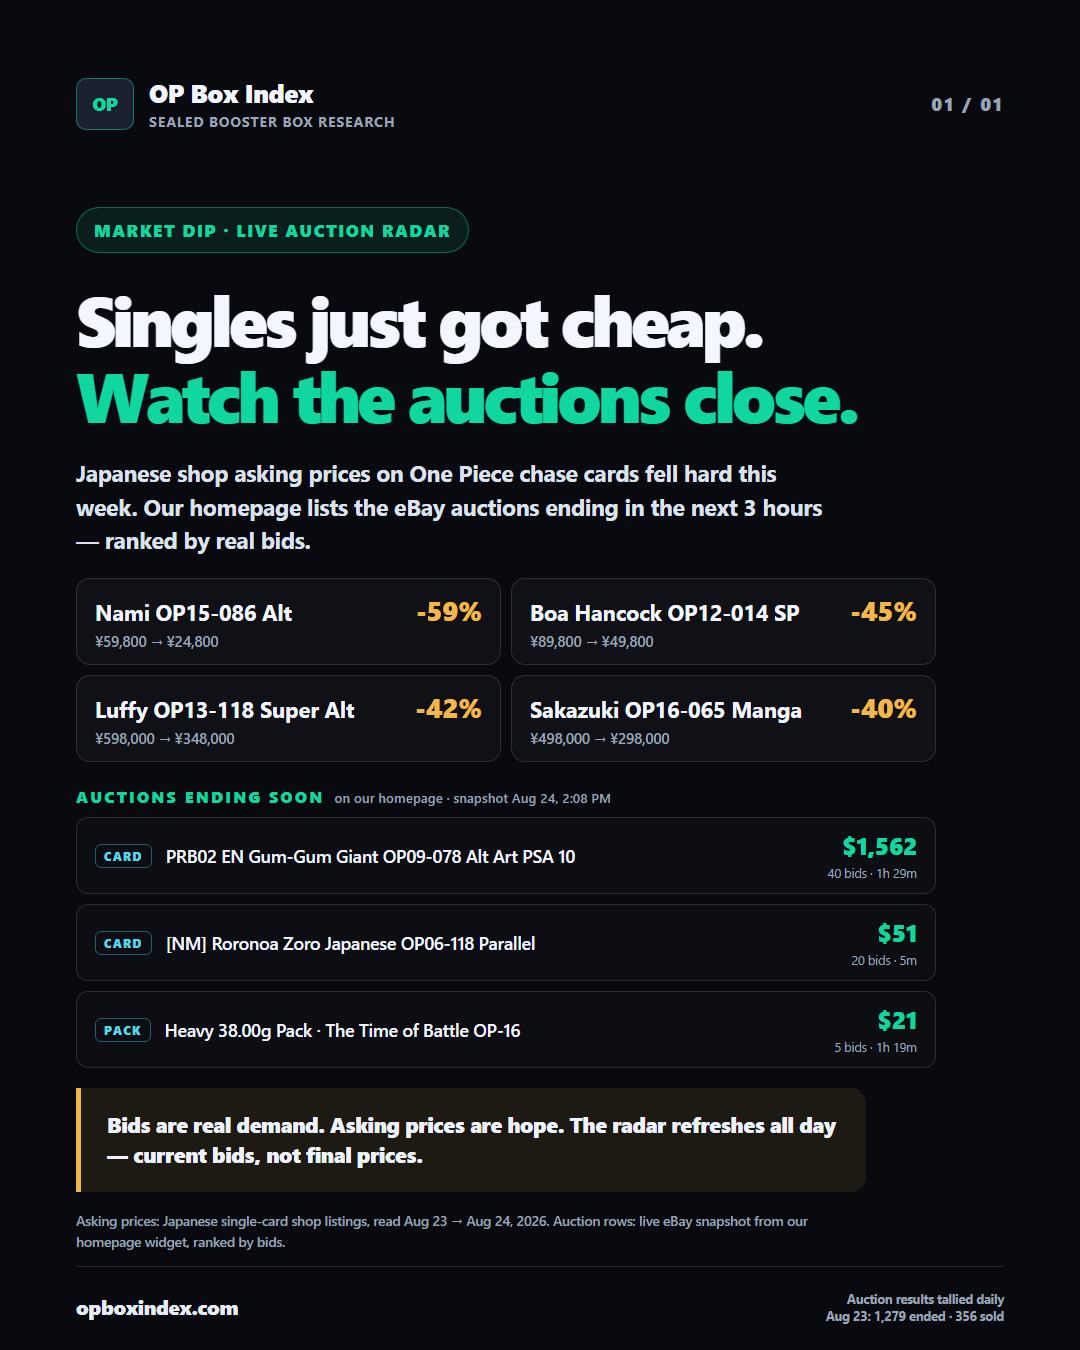
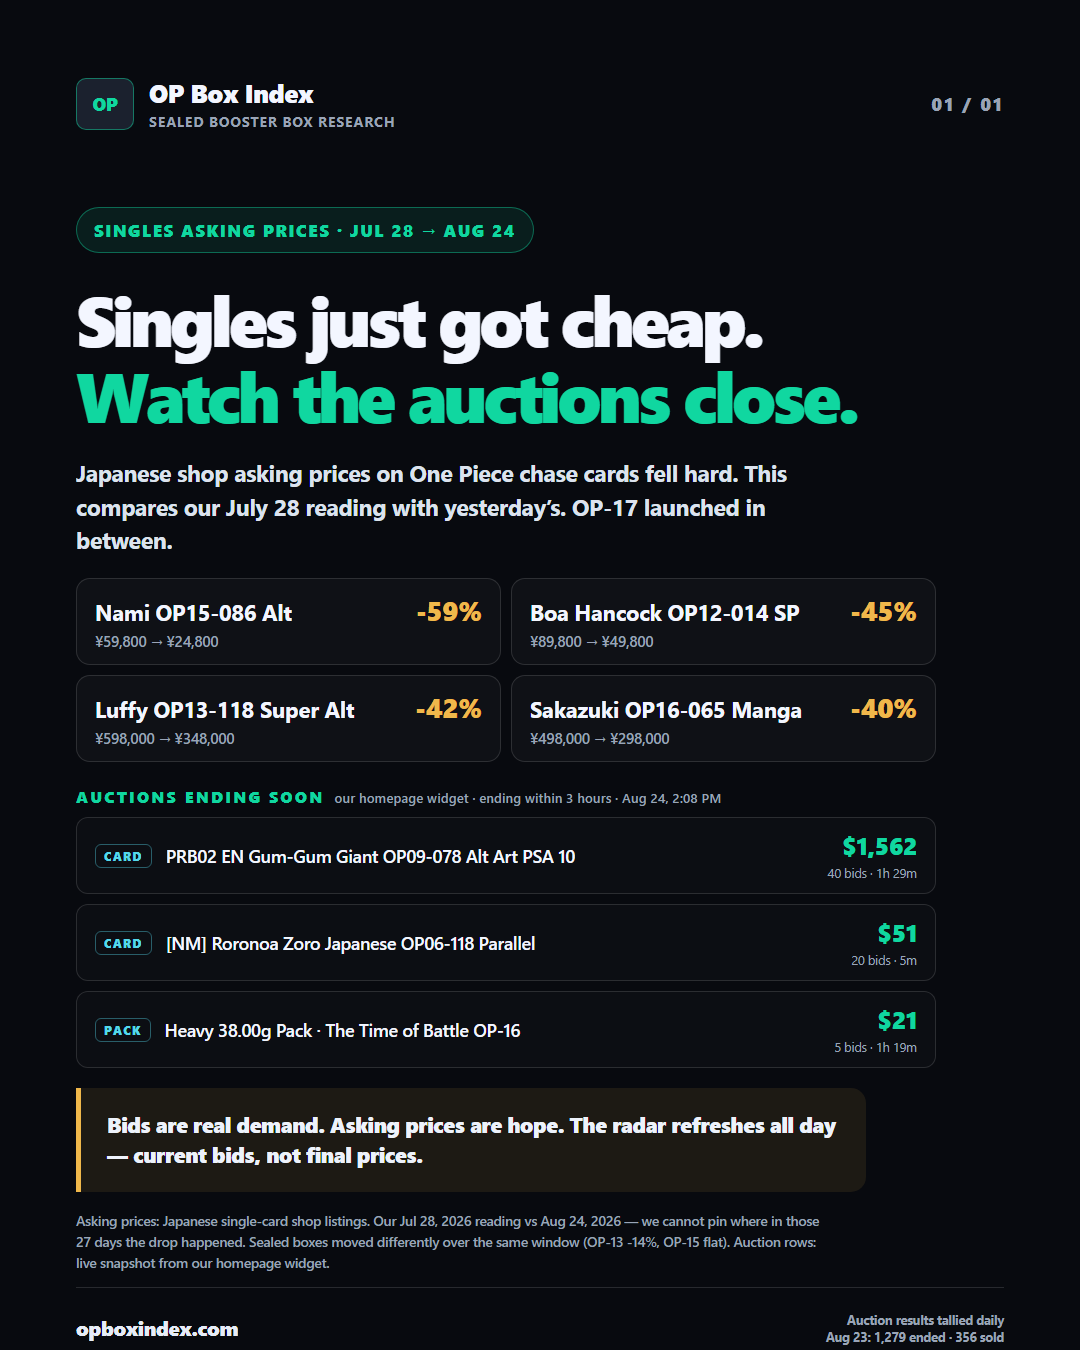
스레드 카드뉴스 정정: 관측 창 '하루' → 27일(7/28→8/24)
초안이 하락을 '하루 만에'로 썼는데 틀렸다. 8/23 커밋의 값은 7/28 수집분이
그대로 남아 있던 것이고, 유유테이 수집이 그 27일간 없었다(워크플로우 미등록).
우리 수집 간격을 시장이 움직인 기간으로 말한 셈이다.

- 관측 창을 7/28 → 8/24 로 명시, OP-17 발매(8/22)는 '그 사이'로만 서술하고
  인과는 단정하지 않는다(재확인 이틀 전이라 특정 불가).
- 같은 창에서 봉인 박스는 갈렸다는 사실 추가 — OP-15 보합, PRB-01 +4%.
  '박스도 같이 폭락'으로 읽히면 안 된다.
- 한글판 슬라이드·본문 추가(검토용). 금지 문장 목록에 이번 오류 박제.

diff --git a/assets/social/threads-2026-08-24-ending-soon/slide-01-ko.html b/assets/social/threads-2026-08-24-ending-soon/slide-01-ko.html
@@ -34,9 +34,9 @@
         <div class="pageNo">01 / 01</div>
       </div>
 
-      <div class="eyebrow">급락장 · 실시간 경매 레이더</div>
+      <div class="eyebrow">싱글 호가 하락 · 7/28 → 8/24</div>
       <h1>싱글 카드, 싸졌습니다.<br /><span>끝나가는 경매를 보세요.</span></h1>
-      <p class="deck">원피스 추격 카드의 일본 샵 호가가 하루 만에 크게 내렸습니다. 저희 홈 화면은 3시간 안에 끝나는 eBay 경매를 실제 입찰 수 순으로 보여줍니다.</p>
+      <p class="deck">원피스 추격 카드의 일본 샵 호가가 크게 내렸습니다. 저희가 7월 28일에 마지막으로 확인한 값과 어제 다시 받은 값의 차이입니다. 그 사이 OP-17이 발매됐습니다.</p>
 
       <div class="dropGrid" aria-label="하루 호가 하락">
         <div class="dropChip"><span><b>나미 OP15-086 알트</b><small>¥59,800 → ¥24,800</small></span><span class="dropPct">-59%</span></div>
@@ -46,14 +46,14 @@
       </div>
 
       <div class="aucPanel" aria-label="임박 경매 예시">
-        <div class="aucHead">곧 끝나는 경매<small>홈 화면 위젯 · 8/24 오후 2:08 스냅샷</small></div>
+        <div class="aucHead">곧 끝나는 경매<small>저희 홈 화면 위젯 · 3시간 내 종료 · 8/24 오후 2:08</small></div>
         <div class="aucRow"><span class="aucKind">카드</span><span class="aucTitle">PRB02 영문 검검열매 거인 OP09-078 알트 PSA 10</span><span class="aucBid"><b>$1,562</b><small>입찰 40 · 1시간 29분</small></span></div>
         <div class="aucRow"><span class="aucKind">카드</span><span class="aucTitle">[NM] 조로 일본판 OP06-118 패러렐</span><span class="aucBid"><b>$51</b><small>입찰 20 · 5분</small></span></div>
         <div class="aucRow"><span class="aucKind">팩</span><span class="aucTitle">중량 38.00g 팩 · The Time of Battle OP-16</span><span class="aucBid"><b>$21</b><small>입찰 5 · 1시간 19분</small></span></div>
       </div>
 
       <div class="insightBar">호가는 희망가, 입찰은 진짜 수요입니다. 레이더는 하루 종일 갱신됩니다 — 표시가는 현재 입찰가이며 낙찰가가 아닙니다.</div>
-      <p class="source">호가: 일본 싱글카드 샵 판매가, 8/23 → 8/24 수집. 경매 행: 홈 화면 위젯 실제 스냅샷, 입찰 수 순 정렬.</p>
+      <p class="source">호가: 일본 싱글카드 샵 판매가. 2026-07-28 확인값 대비 2026-08-24 재확인값이며, 그 27일 사이 어느 시점에 내렸는지는 저희 데이터로 특정할 수 없습니다. 봉인 박스는 같은 기간 세트마다 달랐습니다(OP-13 -14%, OP-15 보합). 경매 행은 홈 화면 위젯 실제 스냅샷.</p>
 
       <div class="footerRow">
         <div class="url">opboxindex.com</div>

diff --git a/assets/social/threads-2026-08-24-ending-soon/slide-01-en.html b/assets/social/threads-2026-08-24-ending-soon/slide-01-en.html
@@ -33,9 +33,9 @@
         <div class="pageNo">01 / 01</div>
       </div>
 
-      <div class="eyebrow">MARKET DIP · LIVE AUCTION RADAR</div>
+      <div class="eyebrow">SINGLES ASKING PRICES · JUL 28 → AUG 24</div>
       <h1>Singles just got cheap.<br /><span>Watch the auctions close.</span></h1>
-      <p class="deck">Japanese shop asking prices on One Piece chase cards fell hard this week. Our homepage lists the eBay auctions ending in the next 3 hours — ranked by real bids.</p>
+      <p class="deck">Japanese shop asking prices on One Piece chase cards fell hard. This compares our July 28 reading with yesterday&rsquo;s. OP-17 launched in between.</p>
 
       <div class="dropGrid" aria-label="One-day asking price drops">
         <div class="dropChip"><span><b>Nami OP15-086 Alt</b><small>¥59,800 → ¥24,800</small></span><span class="dropPct">-59%</span></div>
@@ -45,14 +45,14 @@
       </div>
 
       <div class="aucPanel" aria-label="Auctions ending soon example">
-        <div class="aucHead">AUCTIONS ENDING SOON<small>on our homepage · snapshot Aug 24, 2:08 PM</small></div>
+        <div class="aucHead">AUCTIONS ENDING SOON<small>our homepage widget · ending within 3 hours · Aug 24, 2:08 PM</small></div>
         <div class="aucRow"><span class="aucKind">CARD</span><span class="aucTitle">PRB02 EN Gum-Gum Giant OP09-078 Alt Art PSA 10</span><span class="aucBid"><b>$1,562</b><small>40 bids · 1h 29m</small></span></div>
         <div class="aucRow"><span class="aucKind">CARD</span><span class="aucTitle">[NM] Roronoa Zoro Japanese OP06-118 Parallel</span><span class="aucBid"><b>$51</b><small>20 bids · 5m</small></span></div>
         <div class="aucRow"><span class="aucKind">PACK</span><span class="aucTitle">Heavy 38.00g Pack · The Time of Battle OP-16</span><span class="aucBid"><b>$21</b><small>5 bids · 1h 19m</small></span></div>
       </div>
 
       <div class="insightBar">Bids are real demand. Asking prices are hope. The radar refreshes all day — current bids, not final prices.</div>
-      <p class="source">Asking prices: Japanese single-card shop listings, read Aug 23 → Aug 24, 2026. Auction rows: live eBay snapshot from our homepage widget, ranked by bids.</p>
+      <p class="source">Asking prices: Japanese single-card shop listings. Our Jul 28, 2026 reading vs Aug 24, 2026 &mdash; we cannot pin where in those 27 days the drop happened. Sealed boxes moved differently over the same window (OP-13 -14%, OP-15 flat). Auction rows: live snapshot from our homepage widget.</p>
 
       <div class="footerRow">
         <div class="url">opboxindex.com</div>

diff --git a/assets/social/threads-2026-08-24-ending-soon/post-copy.md b/assets/social/threads-2026-08-24-ending-soon/post-copy.md
@@ -1,51 +1,63 @@
-# Threads — 급락장 + 임박 경매 레이더 (2026-08-24)
+# Threads — 싱글 호가 하락 + 임박 경매 레이더 (2026-08-24)
 
-이미지 1장 (1080×1350): `threads-ending-soon-01-en.png`
+이미지 1080×1350 · 한글 `threads-ending-soon-01-ko.png` / 영문 `threads-ending-soon-01-en.png`
 
-## 본문 (확정)
+---
 
-One Piece singles just got cheap.
-
-Japanese shop asks on chase cards fell hard in one day:
-
-· Nami OP15-086 Alt ¥59,800 → ¥24,800 (-59%)
-· Boa Hancock OP12-014 SP -45%
-· Luffy OP13-118 Super Alt -42%
-· Sakazuki OP16-065 Manga -40%
-
-Asking prices are hope. Bids are real demand.
-
-Our homepage lists the eBay auctions ending in the next 3 hours — ranked by actual bids, refreshed all day. Yesterday 1,279 One Piece auctions ended; 356 sold.
-
-Live radar + daily results → opboxindex.com
-
-
-## 본문 (한글판)
+## 본문 · 한글
 
 원피스 싱글 카드, 싸졌습니다.
 
-추격 카드의 일본 샵 호가가 하루 만에 크게 내렸습니다:
+추격 카드의 일본 샵 호가입니다. 저희가 7월 28일에 마지막으로 확인한 값과 어제(8/24) 다시 받은 값:
 
 · 나미 OP15-086 알트 ¥59,800 → ¥24,800 (-59%)
 · 보아 한콕 OP12-014 SP -45%
 · 루피 OP13-118 슈퍼 알트 -42%
 · 사카즈키 OP16-065 만화 -40%
 
-호가는 희망가, 입찰은 진짜 수요입니다.
+그 사이 OP-17이 발매됐습니다. 다만 27일 창이라 어느 시점에 내렸는지는 저희 데이터로 특정할 수 없습니다.
 
-저희 홈 화면은 3시간 안에 끝나는 eBay 경매를 실제 입찰 수 순으로 보여줍니다. 하루 종일 갱신됩니다. 어제는 원피스 경매 1,279건이 끝났고 356건이 낙찰됐습니다.
+봉인 박스는 같은 기간 세트마다 갈렸습니다 — OP-13 -14%, OP-15는 보합.
+
+호가는 희망가, 입찰은 진짜 수요입니다. 저희 홈 화면은 3시간 안에 끝나는 eBay 경매를 실제 입찰 수 순으로 보여줍니다. 어제는 원피스 경매 1,279건이 끝났고 356건이 낙찰됐습니다.
 
 실시간 레이더 + 일일 집계 → opboxindex.com
 
+---
+
+## 본문 · 영문
+
+One Piece singles just got cheap.
+
+Japanese shop asking prices on chase cards. Our July 28 reading vs yesterday's (Aug 24):
+
+· Nami OP15-086 Alt ¥59,800 → ¥24,800 (-59%)
+· Boa Hancock OP12-014 SP -45%
+· Luffy OP13-118 Super Alt -42%
+· Sakazuki OP16-065 Manga -40%
+
+OP-17 launched in between. It's a 27-day window, so we can't pin exactly when the drop happened.
+
+Sealed boxes split over the same stretch — OP-13 -14%, OP-15 flat.
+
+Asking prices are hope. Bids are real demand. Our homepage lists the eBay auctions ending within 3 hours, ranked by actual bids. Yesterday 1,279 One Piece auctions ended; 356 sold.
+
+Live radar + daily results → opboxindex.com
+
+---
+
 ## 쓰면 안 되는 문장 (과장 금지)
 
-- "역대급 폭락" / "지금이 바닥" — 바닥 판정은 예측이다. 우리는 하락 폭만 안다.
-- "경매가 무조건 싸다" — 낙찰가가 호가보다 낮은 '경향'이지 보장이 아니다.
-- "실시간 최종가" — 위젯은 **현재 입찰가**다. 이미지·본문 모두 "current bids, not final prices" 유지.
-- 하락률에 세트 전체를 일반화하지 말 것 — 카드별 실측 4장만 말한다.
+- **"하루 만에"** — 8/23 커밋에 남아 있던 값은 7/28 수집분이 그대로 유지된 것이다. 실제 관측 창은 **27일**(7/28 → 8/24). 2026-08-24 초안에서 이 오류를 냈다.
+- "OP-17 때문에 떨어졌다" — 발매(8/22)는 재확인 이틀 전이다. 같은 창 안에 있었다는 사실만 말하고 인과는 단정하지 않는다.
+- "박스도 같이 폭락" — 아니다. 같은 창에서 OP-15 보합, PRB-01 +4%였다.
+- "지금이 바닥" / "역대급 폭락" — 바닥 판정은 예측이다. 우리는 하락 폭만 안다.
+- "실시간 최종가" — 위젯은 **현재 입찰가**다. 이미지·본문 모두 "낙찰가가 아님"을 유지한다.
 
 ## 수치 출처
 
-- 하락률: 遊々亭 싱글 호가, 08-23 → 08-24 수집분 (onepiece-packs.json diff)
-- 경매 행 3건: 홈 AUCTIONS ENDING SOON 위젯 08-24 14:08 스냅샷 (실제 표시분)
-- 1,279 종료 / 356 낙찰: auction-series.json 2026-08-23 (완결일)
+- 호가 하락: 遊々亭 싱글 호가. `data/onepiece-packs.json` 의 nmJpy, 2026-07-28 수집분 대비 2026-08-24 수집분.
+  (그 사이 27일간 유유테이 수집이 없었다 — 워크플로우 미등록, 수동 실행 도구)
+- 박스 비교: `box-sold-series.json` jp 주간 중앙값, 7/28~31 기준점 대비 최신점.
+- 경매 행 3건: 홈 AUCTIONS ENDING SOON 위젯 08-24 14:08 실제 표시분.
+- 1,279 종료 / 356 낙찰: `auction-series.json` 2026-08-23(완결일).
